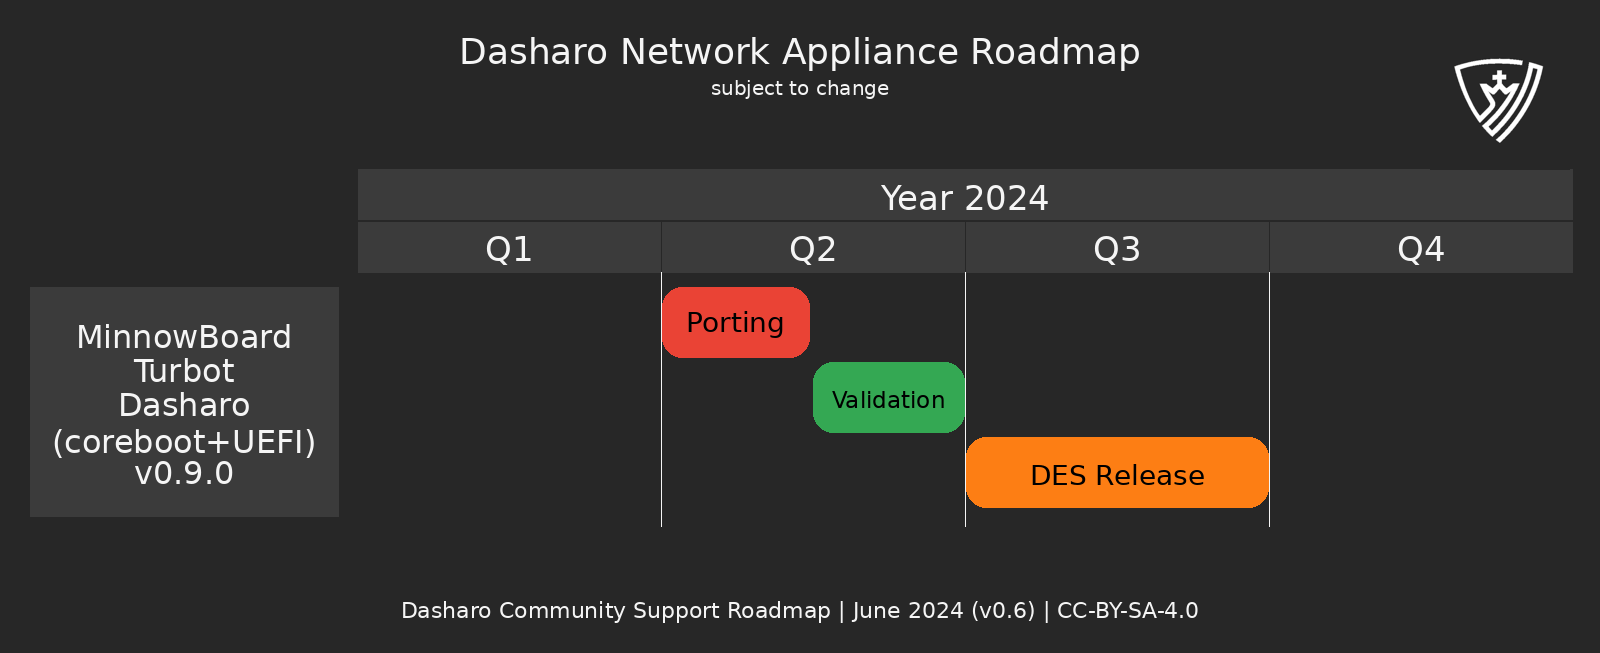
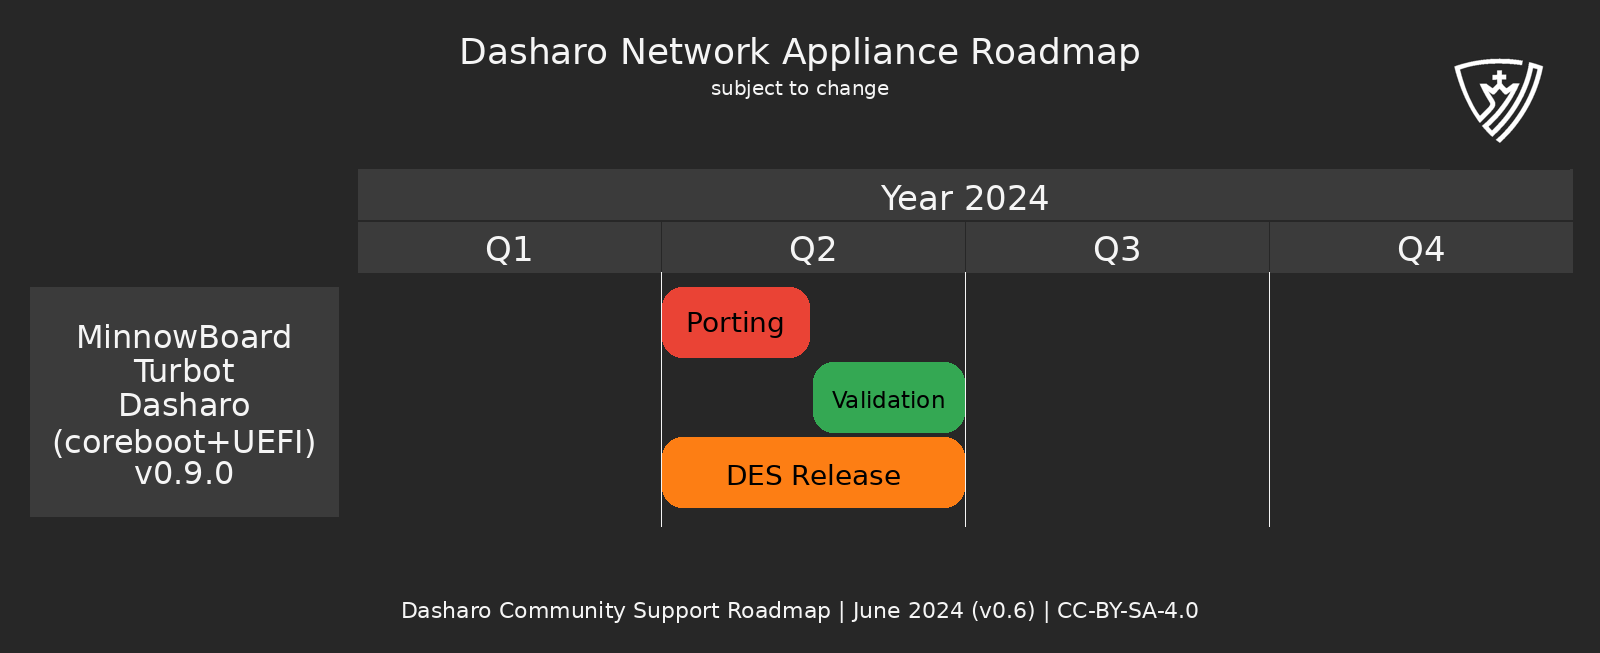
dasharo_roadmap: update Minnowboard Turbot roadmap

Changed region(s): [[0.4062, 0.6432, 0.8125, 0.7963]]

diff --git a/diagrams/dasharo_roadmap.py b/diagrams/dasharo_roadmap.py
@@ -81,7 +81,7 @@ roadmap.add_logo("img/dasharo_logo_white.png", "top-right", 140, 140)
 mb = roadmap.add_group("MinnowBoard Turbot\nDasharo (coreboot+UEFI) v0.9.0")
 mb.add_task("Porting", "2024-04-01", "2024-05-15", style="rounded", fill_colour="#EA4335")
 mb.add_task("Validation", "2024-05-16", "2024-06-30", style="rounded", fill_colour="#34A853", font_size=23)
-mb.add_task("DES Release", "2024-07-01", "2024-09-30", style="rounded", fill_colour="#FD7E14")
+mb.add_task("DES Release", "2024-04-01", "2024-06-30", style="rounded", fill_colour="#FD7E14")
 
 roadmap.set_footer(f"Dasharo Community Support Roadmap | {date} ({version}) | CC-BY-SA-4.0")
 roadmap.draw()

diff --git a/dasharo_roadmap.md b/dasharo_roadmap.md
@@ -129,7 +129,7 @@ no additional payload specified.
 
 ---
 
-# TBD:Dasharo Roadmap States
+# Dasharo Roadmap States
 
 .center.image-95[![](/img/dug_6_dasharo_roadmap_states.png)]
 
@@ -257,6 +257,7 @@ TODO: think how to improve presentation of all those combinations on roadmap
 - DUG#6
   - (CHANGE) MinnowBoard Turbot Dasharo(coreboot+UEFI) planned for Q2'24
     - release scope changed it will base on 24.02.01
+    - release date changed to: Q2'24
 - DUG#5
   - (NEW) MinnowBoard Turbot Dasharo(coreboot+UEFI) planned for Q2'24
 
